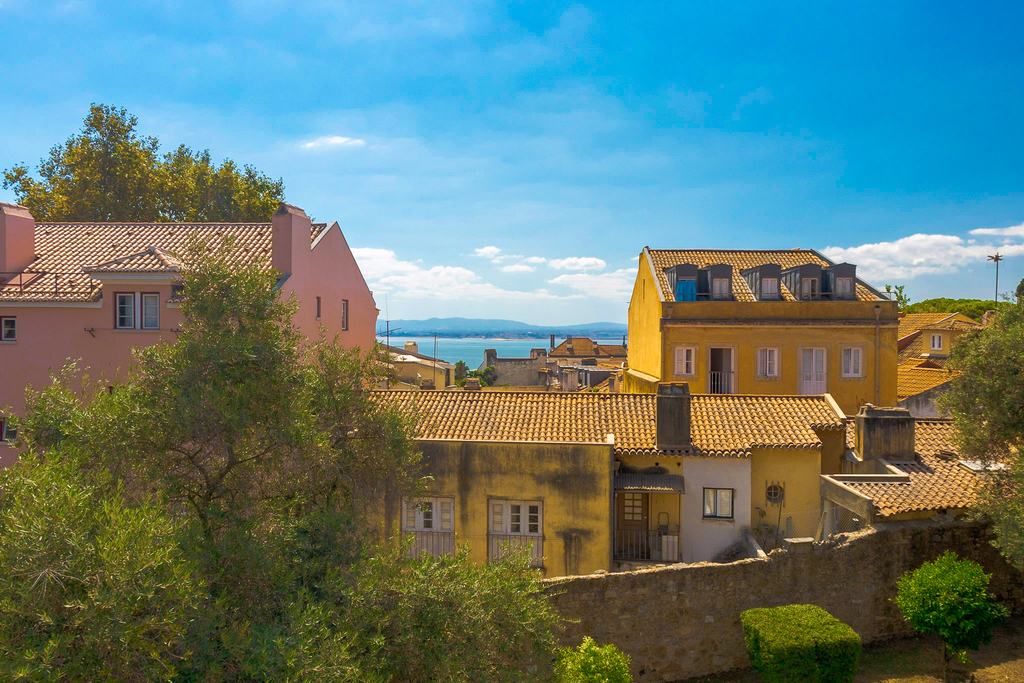
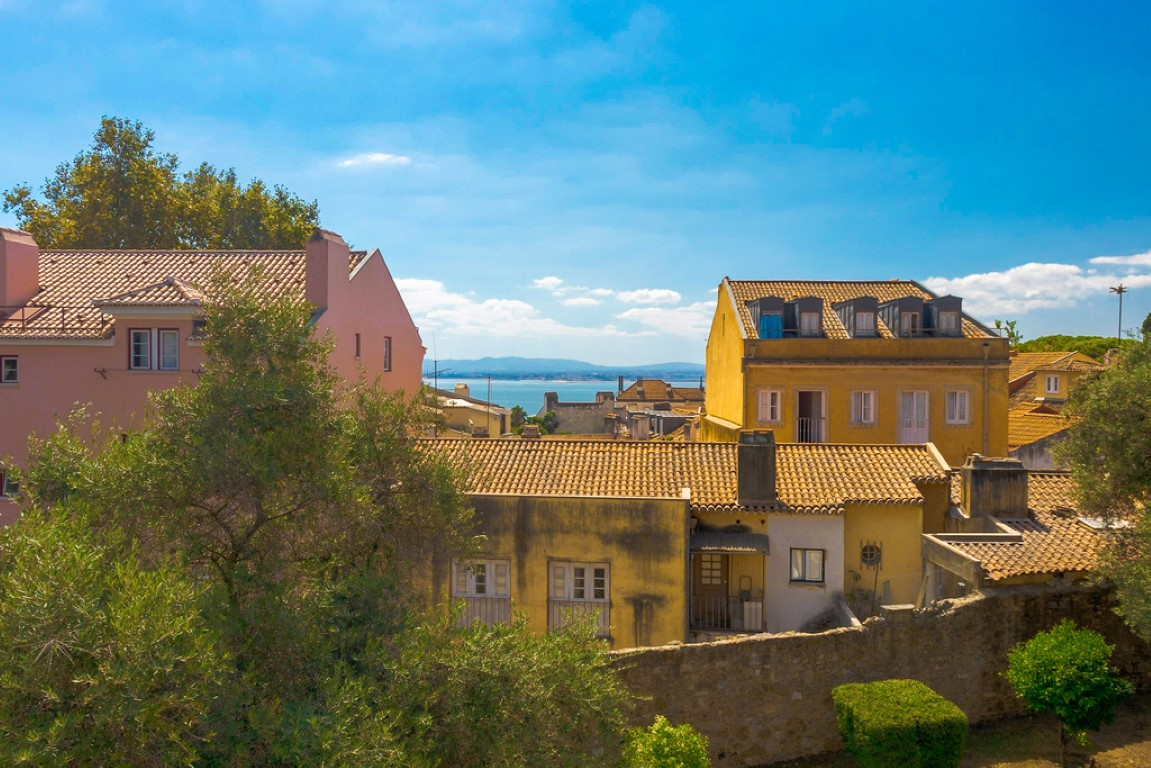
reduces file size

diff --git a/style.css b/style.css
@@ -7,6 +7,18 @@ body {
     max-width: 80vw;
     margin: 0 auto;
 }
+.author {
+    width: 100%;
+    text-align: center;
+    padding: 20px 0;
+    text-transform: capitalize;
+    font-size: 2.5em;
+}
+
+.author span {
+    font-size: 0.5em;
+}
+
 
 #interactiveGallery {
     margin-top: 30px;
@@ -20,7 +32,7 @@ body {
     flex: 1 50vw;
     position: relative;
     border-radius: 10px;
-    box-shadow: rgba(50, 50, 93, 0.25) 0px 6px 12px -2px, rgba(0, 0, 0, 0.3) 0px 3px 7px -3px;
+    box-shadow: rgba(50, 50, 93, 0.25) 0 6px 12px -2px, rgba(0, 0, 0, 0.3) 0 3px 7px -3px;
 
 }
 
@@ -63,6 +75,7 @@ body {
     font-size: 1.7em;
     letter-spacing:5px;
     border-radius: 10px;
+    box-shadow: rgba(50, 50, 93, 0.25) 0 6px 12px -2px, rgba(0, 0, 0, 0.3) 0 3px 7px -3px;
 }
 
 .lrgimg #imgcontents h2 {
@@ -72,6 +85,5 @@ body {
 
 .lrgimg #imgcontents #largeImage {
     max-height: 80vh;
-
     border-radius: 0 0 10px 10px;
 }

diff --git a/index.html b/index.html
@@ -16,7 +16,7 @@
     </div>
 </div>
 <main class="inner_wrapper">
-    <h2> Jesse Gauthier <br> Photography Portfolio</h2>
+    <h2 class="author"> Jesse Gauthier <br><span>Photography Portfolio</span></h2>
     <div class=inner_wrapper" id="interactiveGallery">
     </div>
 
